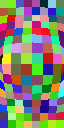
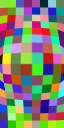
LTDisplacementMapDrawerSpec: use linear texture interpolation.
* Changed the input image to use linear texture interpolation, this
  will reduce the color deviation produced by different GPU families.
* Compare result using beCloseToMatPSNR instead of equalMat.

diff --git a/LTEngine/LTEngineTests/LTDisplacementMapDrawerSpec.mm b/LTEngine/LTEngineTests/LTDisplacementMapDrawerSpec.mm
@@ -127,8 +127,8 @@ context(@"transformations", ^{
     CGSize  meshSize = displacementMap.size - CGSizeMakeUniform(1);
     CGSize cellSize = input.size / meshSize;
 
-    input.magFilterInterpolation = LTTextureInterpolationNearest;
-    input.minFilterInterpolation = LTTextureInterpolationNearest;
+    input.magFilterInterpolation = LTTextureInterpolationLinear;
+    input.minFilterInterpolation = LTTextureInterpolationLinear;
     [input mappedImageForWriting:^(cv::Mat *mapped, BOOL) {
       LTRandom *random = [[LTRandom alloc] initWithSeed:0];
       cv::Mat4b mat = *mapped;
@@ -180,7 +180,7 @@ context(@"transformations", ^{
           LTLoadMat([self class], @"LTDisplacementMapDrawerReshapedWithoutMask.png");
 
       [meshProcessor process];
-      expect($(output.image)).to.equalMat($(expected));
+      expect($(output.image)).to.beCloseToMatPSNR($(expected), 45);
     });
 
     it(@"should resize", ^{
@@ -190,7 +190,7 @@ context(@"transformations", ^{
           LTLoadMat([self class], @"LTDisplacementMapDrawerResizedWithoutMask.png");
 
       [meshProcessor process];
-      expect($(output.image)).to.equalMat($(expected));
+      expect($(output.image)).to.beCloseToMatPSNR($(expected), 50);
     });
 
     it(@"should unwarp", ^{
@@ -201,7 +201,7 @@ context(@"transformations", ^{
           LTLoadMat([self class], @"LTDisplacementMapDrawerUnwarpedWithoutMask.png");
 
       [meshProcessor process];
-      expect($(output.image)).to.equalMat($(expected));
+      expect($(output.image)).to.beCloseToMatPSNR($(expected), 50);
     });
   });
 
@@ -232,7 +232,7 @@ context(@"transformations", ^{
       cv::Mat4b expected = LTLoadMat([self class], @"LTDisplacementMapDrawerReshapedWithMask.png");
 
       [meshProcessor process];
-      expect($(output.image)).to.equalMat($(expected));
+      expect($(output.image)).to.beCloseToMatPSNR($(expected), 50);
     });
 
     it(@"should resize with respect to mask", ^{
@@ -241,7 +241,7 @@ context(@"transformations", ^{
       cv::Mat4b expected = LTLoadMat([self class], @"LTDisplacementMapDrawerResizedWithMask.png");
 
       [meshProcessor process];
-      expect($(output.image)).to.equalMat($(expected));
+      expect($(output.image)).to.beCloseToMatPSNR($(expected), 50);
     });
 
     it(@"should unwarp ignoring mask", ^{
@@ -254,7 +254,7 @@ context(@"transformations", ^{
       cv::Mat4b expected = LTLoadMat([self class], @"LTDisplacementMapDrawerUnwarpedWithMask.png");
 
       [meshProcessor process];
-      expect($(output.image)).to.equalMat($(expected));
+      expect($(output.image)).to.beCloseToMatPSNR($(expected), 50);
     });
   });
 });
